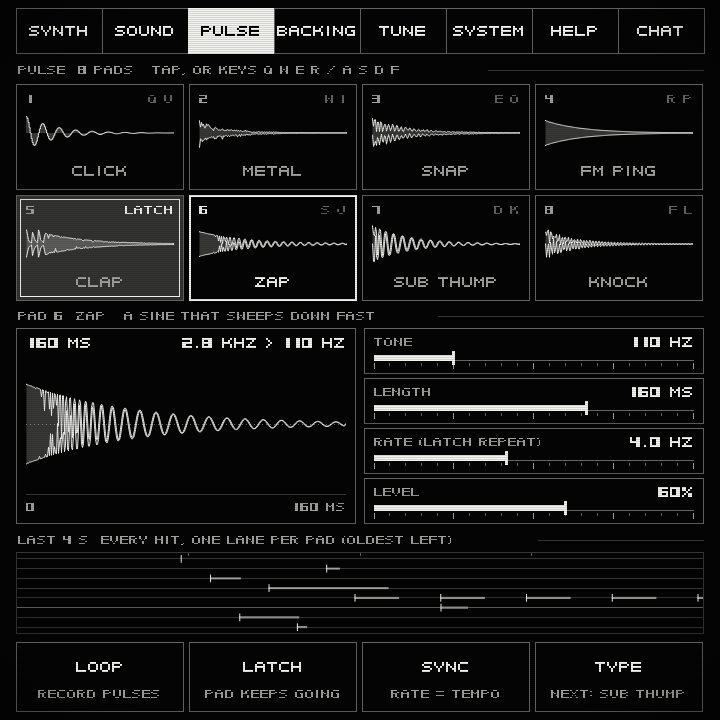
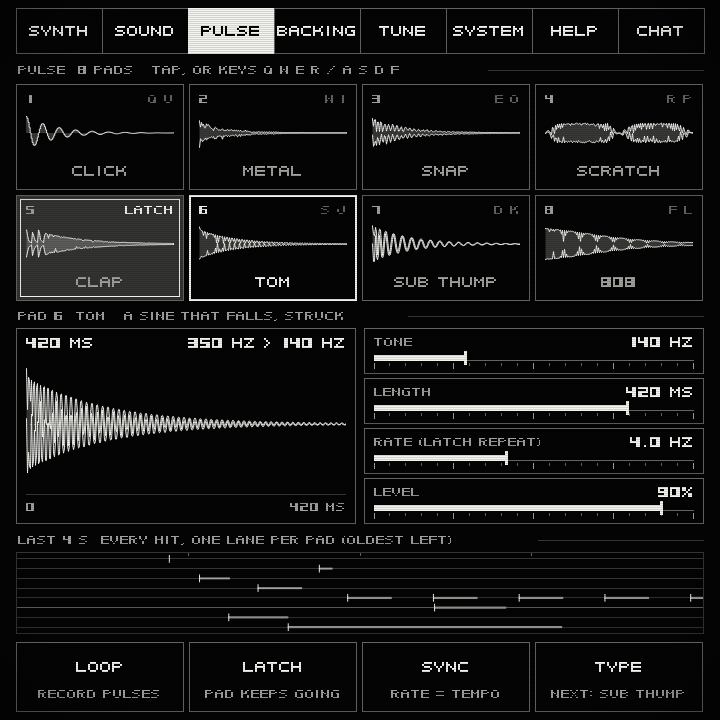
Pulse: scratch, tom and 808 replace FM ping, zap and knock (turntable and 808 direction)
All synthesized. The 808 is a long tuned boom with soft saturation; the tom an 808-style falling
sine with a noise strike; the scratch a rough tone pushed forward and pulled back.

diff --git a/core/pulse/pulse_voice.cpp b/core/pulse/pulse_voice.cpp
@@ -22,6 +22,7 @@ void PulseVoice::setFilters() {
     if (type == PT_METAL) { fc = tone * 20.0f; Q = 1.2f; }
     else if (type == PT_SNAP) { fc = tone * 25.0f; Q = 0.8f; }
     else if (type == PT_CLAP) { fc = tone; Q = 1.5f; }
+    else if (type == PT_SCRATCH) { fc = tone * 6.0f; Q = 1.0f; }
     fc = std::clamp(fc, 20.0f, 0.45f * sr);
     const float g = std::tan(kPi * fc / sr);
     svK = 1.0f / Q;
@@ -47,7 +48,7 @@ void PulseVoice::start(int pad, const PulsePad &p0, float sampleRate, float rate
     rate = std::clamp(rateHz, kPulseRateMin, kPulseRateMax);
     len = lengthSamples(p, sr);
     fadeLen = std::max(1, std::min((int)(0.001f * sr), len / 4));
-    ph = ph2 = 0; ic1 = ic2 = 0;
+    ph = 0; ic1 = ic2 = 0;
     for (float &h : hp) h = 0;
     for (double &q : sq) q = 0;
     rng.s = kSeed;
@@ -58,10 +59,9 @@ void PulseVoice::start(int pad, const PulsePad &p0, float sampleRate, float rate
     case PT_CLICK: tau = sec / 5.0f; break;
     case PT_METAL: tau = sec / 5.0f; break;
     case PT_SNAP: tau = sec / 6.0f; tau2 = sec / 3.5f; break;
-    case PT_PING: tau = sec / 4.0f; tau2 = sec / 12.0f; break;
+    case PT_TOM: tau = sec / 4.0f; tau2 = 0.002f; break;
     case PT_CLAP: tau = sec / 3.5f; break;
-    case PT_ZAP: tau = sec / 3.0f; tau2 = sec / 14.0f; break;
-    case PT_KNOCK: tau = sec / 4.0f; tau2 = sec / 9.0f; break;
+    case PT_BOOM: tau = sec / 3.0f; break;
     default: break;
     }
     decay = decay2 = 1;
@@ -113,10 +113,14 @@ float PulseVoice::next(bool &onset, int &dur) {
         decay2 *= decay2Coef;
         break;
     }
-    case PT_PING: { // phase modulation: the index (up to 3.5) fades three times faster than the ping
-        y = (float)std::sin(kTwoPi * ph + 3.5 * decay2 * std::sin(kTwoPi * ph2)) * decay;
-        ph = wrap(ph + tone / sr); ph2 = wrap(ph2 + std::min(tone * 1.4f, 0.45f * sr) / sr);
-        decay2 *= decay2Coef;
+    case PT_SCRATCH: { // two strokes: forward (up to 1.6 times speed), then back (up to 1.2)
+        const float x = pos / (float)len;
+        const float speed = x < 0.5f ? 1.6f * std::sin(kPi * x / 0.5f) : 1.2f * std::sin(kPi * (x - 0.5f) / 0.5f);
+        const double step = std::min(tone * speed, 0.15f * sr) / sr;
+        const float voice = sine(ph) * 0.6f + sine(2 * ph) * 0.3f + sine(3 * ph) * 0.15f; // a rough, vocal-ish tone
+        ph = wrap(ph + step);
+        const float grit = clampf(band(rng.bipolar()) * svNorm * 0.5f, -1, 1);
+        y = (voice + 0.25f * grit) * std::min(1.0f, speed * 1.3f);
         break;
     }
     case PT_CLAP: { // bursts at 0, 11 and 22 ms (3.5 ms each), then a tail from 33 ms
@@ -127,22 +131,22 @@ float PulseVoice::next(bool &onset, int &dur) {
         y = x * env;
         break;
     }
-    case PT_ZAP: // the pitch falls from 25 times TONE towards TONE
-        y = sine(ph) * decay;
-        ph = wrap(ph + std::min(tone * (1.0f + 24.0f * decay2), 0.45f * sr) / sr);
+    case PT_TOM: { // falls from 2.5 times TONE in about 20 ms; a 2 ms noise strike on top
+        y = 0.78f * sine(ph) * decay + 0.22f * rng.bipolar() * decay2;
+        ph = wrap(ph + tone * (1.0f + 1.5f * std::exp(-t / 0.02f)) / sr);
         decay2 *= decay2Coef;
         break;
+    }
     case PT_THUMP: { // the pitch falls from four times the tone to the tone, time constant 15 ms
         const float drop = std::exp(-t / 0.015f);
         y = sine(ph) * decay;
         ph = wrap(ph + tone * (1.0f + 3.0f * drop) / sr);
         break;
     }
-    case PT_KNOCK: { // two modes of a struck block, both a touch sharp at the strike
-        const float bend = 1.0f + 0.3f * std::exp(-t / 0.003f);
-        y = 0.75f * sine(ph) * decay + 0.35f * sine(ph2) * decay2;
-        ph = wrap(ph + tone * bend / sr); ph2 = wrap(ph2 + std::min(tone * 2.7f * bend, 0.45f * sr) / sr);
-        decay2 *= decay2Coef;
+    case PT_BOOM: { // glides down from twice TONE (40 ms), then rings long; soft saturation gives it weight
+        const float x = sine(ph) * decay;
+        y = std::tanh(1.8f * x) / std::tanh(1.8f);
+        ph = wrap(ph + tone * (1.0f + std::exp(-t / 0.04f)) / sr);
         break;
     }
     }

diff --git a/tests/pulse_tests.cpp b/tests/pulse_tests.cpp
@@ -71,22 +71,24 @@ void testPulseSounds() {
         CHECK(goertzel(cl.data() + (int)(0.04 * SR), w, 1200) > 2.0f * goertzel(cl.data() + (int)(0.04 * SR), w, 6000), "with its noise in a band around TONE");
     }
 
-    SECTION("pulse: pitched strikes");
+    SECTION("pulse: scratch, tom, sub thump and 808");
     {
-        std::vector<float> pg = render(kind(PT_PING, 880, 700), 0.7);
-        const int w = (int)(0.03 * SR);
-        CHECK(shareAt(pg.data() + (int)(0.003 * SR), w, 880) < 0.8f, "an FM ping starts rich (%.2f of its energy at TONE)", shareAt(pg.data() + (int)(0.003 * SR), w, 880));
-        CHECK(near(measureHz(pg.data() + (int)(0.35 * SR), w * 3), 880, 0.005f) && shareAt(pg.data() + (int)(0.35 * SR), w * 3, 880) > 0.95f,
-              "and rings out as a pure TONE (%.1f Hz)", measureHz(pg.data() + (int)(0.35 * SR), w * 3));
-        std::vector<float> z = render(kind(PT_ZAP, 110, 300), 0.3);
-        const float early = measureHz(z.data(), (int)(0.004 * SR)), late = measureHz(z.data() + (int)(0.15 * SR), (int)(0.12 * SR));
-        CHECK(early > 1000 && near(late, 110, 0.05f), "a zap sweeps from high (%.0f Hz) down to TONE (%.1f Hz)", early, late);
+        std::vector<float> sc = render(kind(PT_SCRATCH, 330, 400), 0.4);
+        const int L = (int)(0.4 * SR), w = (int)(0.01 * SR);
+        auto lv = [&](float x) { return rms(sc.data() + (int)(x * L) - w / 2, w); };
+        CHECK(lv(0.25f) > 4 * lv(0.5f) && lv(0.75f) > 4 * lv(0.5f), "a scratch is two strokes with a stop between (%.3f, %.3f, turn %.3f)", lv(0.25f), lv(0.75f), lv(0.5f));
+        const float fwd = measureHz(sc.data() + (int)(0.22 * L), (int)(0.06 * L)), back = measureHz(sc.data() + (int)(0.72 * L), (int)(0.06 * L));
+        CHECK(fwd > 1.2f * back && fwd > 330 * 1.3f, "pushed faster than it is pulled back, so it is higher (%.0f Hz, then %.0f Hz)", fwd, back);
+        std::vector<float> tm = render(kind(PT_TOM, 140, 420), 0.42);
+        const float early = measureHz(tm.data() + (int)(0.002 * SR), (int)(0.01 * SR)), late = measureHz(tm.data() + (int)(0.12 * SR), (int)(0.15 * SR));
+        CHECK(early > 1.6f * 140 && near(late, 140, 0.02f), "a tom falls from well above TONE (%.0f Hz) to TONE (%.1f Hz)", early, late);
         std::vector<float> s = render(kind(PT_THUMP, 45, 400), 0.4);
         const float e2 = measureHz(s.data(), (int)(0.025 * SR)), l2 = measureHz(s.data() + (int)(0.1 * SR), (int)(0.25 * SR));
         CHECK(e2 > 90 && near(l2, 45, 0.05f), "a sub thump falls from above twice its tone (%.0f Hz) to TONE (%.1f Hz)", e2, l2);
-        std::vector<float> k = render(kind(PT_KNOCK, 800, 400), 0.4); // long enough to measure its modes
-        const int a = (int)(0.012 * SR), n = (int)(0.08 * SR);
-        const float modes = shareAt(k.data() + a, n, 800) + shareAt(k.data() + a, n, 2160);
-        CHECK(modes > 0.9f && shareAt(k.data() + a, n, 2160) > 0.01f, "a knock is two modes, TONE and 2.7 times TONE (%.2f of its energy)", modes);
+        std::vector<float> b = render(kind(PT_BOOM, 49, 1600), 1.6);
+        const float bl = measureHz(b.data() + (int)(0.3 * SR), (int)(0.5 * SR));
+        CHECK(near(bl, 49, 0.02f), "an 808 settles on TONE, so it can be tuned (%.1f Hz)", bl);
+        CHECK(rms(b.data() + (int)(1.0 * SR), w * 5) > 0.15f * rms(b.data() + (int)(0.1 * SR), w * 5), "and it rings long: a second in it keeps over 15 %% of its level");
+        CHECK(peak(b) <= 1.0f, "its saturation stays inside full scale (peak %.3f)", peak(b));
     }
 }

diff --git a/tests/pulse_pad_tests.cpp b/tests/pulse_pad_tests.cpp
@@ -37,12 +37,12 @@ void testPulsePads() {
     }
     {
         Rig r;
-        r.inst.pulseSet(0, PF_TYPE, PT_PING); r.inst.pulseSet(0, PF_TONE, 660); r.inst.pulseSet(0, PF_LENGTH, 200);
+        r.inst.pulseSet(0, PF_TYPE, PT_TOM); r.inst.pulseSet(0, PF_TONE, 660); r.inst.pulseSet(0, PF_LENGTH, 200);
         r.run(0.01); r.clear();
-        r.inst.hit(0); r.run(0.15);
+        r.inst.hit(0); r.run(0.2);
         const UiState u = r.inst.uiState();
-        CHECK(u.pulse[0].type == PT_PING && u.pulse[0].tone == 660 && u.pulse[0].lengthMs == 200, "any pad can be any kind, with its own settings");
-        CHECK(near(measureHz(r.L.data() + 2400, 4800), 660, 0.005f), "and it plays them (%.1f Hz)", measureHz(r.L.data() + 2400, 4800));
+        CHECK(u.pulse[0].type == PT_TOM && u.pulse[0].tone == 660 && u.pulse[0].lengthMs == 200, "any pad can be any kind, with its own settings");
+        CHECK(near(measureHz(r.L.data() + 4800, 3600), 660, 0.02f), "and it plays them (%.1f Hz)", measureHz(r.L.data() + 4800, 3600));
         r.inst.pulseSet(0, PF_TONE, 1e9f); r.inst.pulseSet(0, PF_LEVEL, -3); r.run(0.01);
         CHECK(r.inst.uiState().pulse[0].tone == kPulseToneMax && r.inst.uiState().pulse[0].level == 0, "settings out of range are held at the limits");
     }
@@ -62,15 +62,15 @@ void testPulsePads() {
     }
     {
         Rig r;
-        r.inst.pulseLatch(5, true); // the zap, 160 ms: latched it is hit again at its rate
+        r.inst.pulseLatch(5, true); // the tom: latched it is hit again at its rate
         std::vector<PulseTick> t = pulseTicks(r, 1.02);
-        CHECK(ticksOf(t, 5) == 5, "a latched zap repeats at RATE (%d hits in 1.02 s at 4 Hz)", ticksOf(t, 5));
+        CHECK(ticksOf(t, 5) == 5, "a latched tom repeats at RATE (%d hits in 1.02 s at 4 Hz)", ticksOf(t, 5));
         r.inst.pulseSet(5, PF_RATE, 8);
         r.run(0.01);
         t = pulseTicks(r, 1.0);
         CHECK(ticksOf(t, 5) >= 7 && ticksOf(t, 5) <= 9, "and a new rate is followed at once (%d in 1 s at 8 Hz)", ticksOf(t, 5));
         r.inst.pulseLatch(5, false);
-        r.run(0.2); r.clear(); r.run(0.2);
+        r.run(0.5); r.clear(); r.run(0.2); // the last hit rings out its 420 ms first
         CHECK(peak(r.L) < 1e-4f, "unlatched it stops (peak %.6f)", peak(r.L));
         r.inst.pulseLatch(2, true); r.inst.pulseLatch(4, true); r.run(0.3);
         r.inst.cmd(EV_PANIC);

diff --git a/core/pulse/pulse.cpp b/core/pulse/pulse.cpp
@@ -7,11 +7,11 @@
 namespace td {
 
 namespace {
-const char *const kNames[kPulseTypes] = {"CLICK", "METAL", "SNAP", "FM PING", "CLAP", "ZAP", "SUB THUMP", "KNOCK"};
-const char *const kKeys[kPulseTypes] = {"click", "metal", "snap", "ping", "clap", "zap", "thump", "knock"};
+const char *const kNames[kPulseTypes] = {"CLICK", "METAL", "SNAP", "SCRATCH", "CLAP", "TOM", "SUB THUMP", "808"};
+const char *const kKeys[kPulseTypes] = {"click", "metal", "snap", "scratch", "clap", "tom", "thump", "808"};
 const char *const kLines[kPulseTypes] = {
-    "A SHORT RINGING CLICK", "CLASHING SQUARES, HIGH AND BRIGHT", "A PITCHED BODY UNDER BRIGHT NOISE", "A GLASSY FM STRIKE",
-    "THREE QUICK NOISE BURSTS AND A TAIL", "A SINE THAT SWEEPS DOWN FAST", "A LOW SINE THAT DROPS IN PITCH", "TWO WOODEN SINE MODES"};
+    "A SHORT RINGING CLICK", "CLASHING SQUARES, HIGH AND BRIGHT", "A PITCHED BODY UNDER BRIGHT NOISE", "A TONE PUSHED AND PULLED, LIKE VINYL",
+    "THREE QUICK NOISE BURSTS AND A TAIL", "A SINE THAT FALLS, STRUCK", "A LOW SINE THAT DROPS IN PITCH", "A LONG TUNED BOOM"};
 int clampType(int t) { return t < 0 ? 0 : (t >= kPulseTypes ? kPulseTypes - 1 : t); }
 } // namespace
 
@@ -19,8 +19,8 @@ PulsePad pulseDefault(int pad) {
     //                       type      tone    length  rate  level
     static const PulsePad D[kPulsePads] = {
         {PT_CLICK, 3000, 3, 4, 0.8f},   {PT_METAL, 400, 80, 8, 0.7f},     {PT_SNAP, 190, 180, 2, 0.9f},
-        {PT_PING, 880, 700, 2, 0.6f},   {PT_CLAP, 1200, 260, 2, 0.7f},    {PT_ZAP, 110, 160, 4, 0.6f},
-        {PT_THUMP, 45, 350, 1, 0.9f},   {PT_KNOCK, 800, 60, 4, 0.7f}};
+        {PT_SCRATCH, 330, 260, 2, 0.5f}, {PT_CLAP, 1200, 260, 2, 0.7f},   {PT_TOM, 140, 420, 4, 0.9f},
+        {PT_THUMP, 45, 350, 1, 0.9f},   {PT_BOOM, 49, 1600, 0.5f, 0.75f}};
     return D[pad < 0 ? 0 : (pad >= kPulsePads ? kPulsePads - 1 : pad)];
 }
 

diff --git a/core/pulse/pulse.h b/core/pulse/pulse.h
@@ -7,18 +7,19 @@
 //              the lowest square (the band sits twenty times above it)
 //   SNAP       a short pitched body (TONE, dropping from twice it) under a burst of bright noise
 //              (band at 25 times TONE), like a snare
-//   FM PING    a sine carrier at TONE, phase-modulated at 1.4 times TONE by an index that fades
-//              faster than the ping: a glassy, bell-like strike
+//   SCRATCH    a turntable scratch: a tone with its second and third harmonics, plus a little
+//              grit, pushed forward then pulled back (two strokes over LENGTH); TONE is the
+//              pitch at normal speed
 //   CLAP       band-passed noise (band at TONE) in three quick bursts 11 ms apart, then a tail
-//   ZAP        a sine that sweeps down from 25 times TONE to TONE: a laser-like drop
+//   TOM        an 808 tom: a sine falling from 2.5 times TONE to TONE, with a short noise strike
 //   SUB THUMP  a low sine that falls from four times TONE to TONE in about 15 ms
-//   KNOCK      two sine modes (TONE and 2.7 times TONE) with a tiny pitch drop: wood or a rim
+//   808        a long, tuned sub boom: a sine gliding down from twice TONE, softly saturated
 // RATE sets how often a latched pad repeats. LEVEL is 0..1.
 #pragma once
 
 namespace td {
 
-enum PulseType { PT_CLICK, PT_METAL, PT_SNAP, PT_PING, PT_CLAP, PT_ZAP, PT_THUMP, PT_KNOCK, kPulseTypes };
+enum PulseType { PT_CLICK, PT_METAL, PT_SNAP, PT_SCRATCH, PT_CLAP, PT_TOM, PT_THUMP, PT_BOOM, kPulseTypes };
 enum PulseField { PF_TYPE, PF_TONE, PF_LENGTH, PF_RATE, PF_LEVEL, PF_COUNT };
 constexpr int kPulsePads = 8;
 

diff --git a/app/selftest/socket_commands.cpp b/app/selftest/socket_commands.cpp
@@ -79,7 +79,7 @@ const Case cases[] = {
     {R"({"cmd":"backing","action":"play"})", true, 100},
     {R"({"cmd":"backing","action":"remove_last"})", true, 0},
     {R"({"cmd":"backing"})", false, 0},
-    {R"({"cmd":"pulse","pad":0,"type":"zap","tone":800,"length":120,"rate":30,"level":0.5})", true, 0},
+    {R"({"cmd":"pulse","pad":0,"type":"tom","tone":800,"length":120,"rate":30,"level":0.5})", true, 0},
     {R"({"cmd":"pulse","pad":0,"type":"banjo"})", false, 0},
     {R"({"cmd":"pulse","pad":8,"hit":true})", false, 0},
     {R"({"cmd":"pulse","hit":true})", false, 0},
@@ -139,7 +139,7 @@ void socketEveryCommand(Context &ctx, Link &link) {
     {
         const QJsonObject st = r["result"].toObject();
         check(st["backing"].toObject()["chords"].toArray().size() >= 3 &&
-              st["pulse"].toObject()["pads"].toArray()[0].toObject()["type"].toString() == "zap" && st["pulse"].toObject()["sync"].toBool() &&
+              st["pulse"].toObject()["pads"].toArray()[0].toObject()["type"].toString() == "tom" && st["pulse"].toObject()["sync"].toBool() &&
               st["tempo"].toDouble() == 120 && st["page"].toString() == "synth" && !st.contains("beat"),
               "state reflects what the commands did (backing chords, a pulse pad, sync, tempo, page)");
     }

diff --git a/app/control/control_loop.cpp b/app/control/control_loop.cpp
@@ -73,7 +73,7 @@ QJsonObject ControlServer::cmdBacking(const QJsonObject &a, QString &e) {
     return r;
 }
 
-// {"cmd":"pulse","pad":5,"type":"zap","tone":1000,"length":250,"rate":40,"level":0.8,"latch":true,"hit":true,"sync":false}
+// {"cmd":"pulse","pad":5,"type":"tom","tone":1000,"length":250,"rate":40,"level":0.8,"latch":true,"hit":true,"sync":false}
 // Every field is optional, but there must be one; all but sync need a pad (0 to 7).
 QJsonObject ControlServer::cmdPulse(const QJsonObject &a, QString &e) {
     Args A{a, e};
@@ -88,7 +88,7 @@ QJsonObject ControlServer::cmdPulse(const QJsonObject &a, QString &e) {
     const double rate = A.num("rate", kPulseRateMin, kPulseRateMax, -1), level = A.num("level", 0, 1, -1);
     if (!e.isEmpty()) return {};
     const int t = type.isEmpty() ? -1 : pulseTypeFromKey(type.toLower().toUtf8().constData());
-    if (!type.isEmpty() && t < 0) { e = "type must be click, metal, snap, ping, clap, zap, thump or knock"; return {}; }
+    if (!type.isEmpty() && t < 0) { e = "type must be click, metal, snap, scratch, clap, tom, thump or 808"; return {}; }
     if (A.has("sync")) inst.set(S_PULSESYNC, sync ? 1 : 0);
     if (t >= 0) inst.pulseSet(pad, PF_TYPE, (float)t);
     if (tone >= 0) inst.pulseSet(pad, PF_TONE, (float)tone);

diff --git a/app/pages/help/help_rows.cpp b/app/pages/help/help_rows.cpp
@@ -27,8 +27,8 @@ std::vector<HelpRow> helpRows(const KeyMap &km, int helpPage) {
         };
     } else if (helpPage == 2) {
         rows = {
-            {km.rows[2].left(4).split("", Qt::SkipEmptyParts).join(" "), "Pulse page: pads 1-4 (click, metal, snap, ping)"},
-            {km.rows[1].left(4).split("", Qt::SkipEmptyParts).join(" "), "Pulse page: pads 5-8 (clap, zap, thump, knock)"},
+            {km.rows[2].left(4).split("", Qt::SkipEmptyParts).join(" "), "Pulse page: pads 1-4 (click, metal, snap, scratch)"},
+            {km.rows[1].left(4).split("", Qt::SkipEmptyParts).join(" "), "Pulse page: pads 5-8 (clap, tom, thump, 808)"},
             {km.rows[2].mid(6, 4).split("", Qt::SkipEmptyParts).join(" ") + " / " + km.rows[1].mid(5, 4).split("", Qt::SkipEmptyParts).join(" "), "the same pads again, for the other hand"},
             {"Left / Right", "Pulse page: select the pad before / after"},
             {km.rows[0].left(1) + QString::fromUtf8(" ‥ ") + km.rows[0].right(1), "Pulse page: the low string still plays"},

diff --git a/app/pages/pulse/pulse_pads.cpp b/app/pages/pulse/pulse_pads.cpp
@@ -34,11 +34,11 @@ QString what(const PulsePad &p, int /*onsets*/, float sr) { // the top right of 
     switch (p.type) {
     case PT_METAL: return QString("band %1").arg(hz(std::min(p.tone * 20, top)));
     case PT_SNAP: return QString("body %1").arg(hz(p.tone));
-    case PT_PING: return QString("%1, fm x1.4").arg(hz(p.tone));
+    case PT_SCRATCH: return QString("%1, two strokes").arg(hz(p.tone));
     case PT_CLAP: return QString("band %1").arg(hz(p.tone));
-    case PT_ZAP: return QString("%1 > %2").arg(hz(std::min(p.tone * 25, top))).arg(hz(p.tone));
+    case PT_TOM: return QString("%1 > %2").arg(hz(std::min(p.tone * 2.5f, top))).arg(hz(p.tone));
     case PT_THUMP: return QString("%1 > %2").arg((int)std::round(p.tone * 4)).arg(hz(p.tone));
-    case PT_KNOCK: return QString("%1 + %2").arg(hz(p.tone)).arg(hz(std::min(p.tone * 2.7f, top)));
+    case PT_BOOM: return QString("%1 > %2").arg(hz(std::min(p.tone * 2, top))).arg(hz(p.tone));
     default: return QString("ring %1").arg(hz(p.tone));
     }
 }

diff --git a/core/pulse/pulse_voice.h b/core/pulse/pulse_voice.h
@@ -33,8 +33,8 @@ private:
     int padNo = 0, type = 0, pos = 0, len = 1, wait = 0, fadeLen = 1;
     float sr = 48000, tone = 1000, rate = 4, level = 0.8f, relGain = 1, relCoef = 0.99f;
     float decay = 1, decayCoef = 1;   // the main exponential envelope, multiplied each sample
-    float decay2 = 1, decay2Coef = 1; // a second one: the snap's noise, the ping's index, the knock's upper mode
-    double ph = 0, ph2 = 0;           // sine phases (0..1): the body, and the modulator or upper mode
+    float decay2 = 1, decay2Coef = 1; // a second one: the snap's noise, the tom's strike
+    double ph = 0;                    // sine phase (0..1)
     double sq[6] = {0};               // metal: the six squares' phases
     float hpA = 0, hp[4] = {0};       // metal: two one-pole high-passes (in and out of each)
     float ic1 = 0, ic2 = 0, svA1 = 0, svA2 = 0, svA3 = 0, svK = 0.5f, svNorm = 1; // a band-pass (metal, snap, clap)

diff --git a/app/tour/tourdemoplay.cpp b/app/tour/tourdemoplay.cpp
@@ -31,7 +31,7 @@ void TourDemo::playPages(Rig &rig, std::vector<TourView::Pic> &pics) {
     w.setPage(PG_PULSE); rig.settle(2);
     for (int p : {0, 2, 6, 3, 7}) { w.pulsePage.hitPad(p); pump(inst, 180); rig.settle(1); } // a few hits for the strip
     w.pulsePage.setLatch(1, true); pump(inst, 600); rig.settle(1); w.pulsePage.setLatch(1, false);
-    w.pulsePage.hitPad(5); pump(inst, 400);                                  // the zap, selected
+    w.pulsePage.hitPad(5); pump(inst, 400);                                  // the tom, selected
     rig.settle(3);
     QThread::msleep(300);                                                     // the pads that just sounded fade
     C("pulse");

diff --git a/docs/STATUS.md b/docs/STATUS.md
@@ -1,6 +1,6 @@
 # Status — what works, what is unproven, what is missing
 
-Version 0.14.0 with new pulse sounds, 2026-11-15. Six of the eight pulse kinds were replaced (the player found them dull): tick, noise burst, sine blip, gated tone, pulse train and hiss gave way to **metal** (hi-hat-like squares), **snap** (snare-like), **FM ping**, **clap**, **zap** and **knock**. Click and sub thump are unchanged. A latched pad of any kind now repeats at Rate (no kind runs on by itself any more). Old state files that name a removed kind keep that pad's default. The held / bendable pad experiment was tried and reverted. **Nobody has heard the new sounds yet**: everything below about them is measured offline. Tests: 428 engine checks.
+Version 0.14.0 with new pulse sounds, 2026-11-15. Six of the eight pulse kinds were replaced (the player found them dull), then three more steered towards turntable and 808 sounds (Joe Hahn, Linkin Park, 808s & Heartbreak as the direction, synthesized, nothing sampled): tick, noise burst, sine blip, gated tone, pulse train and hiss gave way to **metal** (hi-hat-like squares), **snap** (snare-like), **scratch** (a turntable push and pull), **clap**, **tom** (808-style) and **808** (a long tuned boom). Click and sub thump are unchanged. A latched pad of any kind now repeats at Rate (no kind runs on by itself any more). Old state files that name a removed kind keep that pad's default. The held / bendable pad experiment was tried and reverted. **Nobody has heard the new sounds yet**: everything below about them is measured offline. Tests: 430 engine checks.
 
 Version 0.14.0 with Backing restored, 2026-11-15. The Backing page is back as it was before 0.13.0 (progression row, Prog / Hold / Drone, Sustain / Pulse / arpeggio styles, 7th chords, backing volume, the `backing` socket command), except that backing play / stop is now `Ctrl`+`Space` (`Ctrl`+`P` is the Poly keyboard). The Track page stays removed, and so does the beat sequencer: the tabs are Synth, Sound, Pulse, Backing, Tune, System, Help and Chat. Sessions keep the progression again. Tests: 439 engine, 344 app checks.
 
@@ -27,8 +27,8 @@ application with real key and touch events while the real audio thread runs (344
 | Looper | Count-in, bar snap, playback, overdub, undo, stop/start, clear; a recorded slide replays as a slide; an 18-second loop; a layer keeps the sound it was recorded with |
 | Glitch | With the pad down the wave becomes flat steps with only a few levels left, the note is still present, loudness stays in range and inside full scale; the grit is the same at low volume; lifting the finger, changing mapping or panic restores the clean sound; Hold latches it |
 | Backing | Diatonic triads and sevenths named and built correctly; a tapped I–IV–V–IV progression loops in tempo under a live melody; remove / replace / stop / start / clear; hold and drone modes; arpeggio; backing keeps its sound when the lead changes; the progression, held chord and drones are saved in sessions |
-| Pulse sounds | Each of the eight default pads is finite, peaks between 0.05 and 1.0, never sounds past its Length and fades to silence; the same settings give the same samples twice; offline none of metal, snap or clap clips at full level. A click starts at its peak with most of its energy in the first millisecond; metal has more than four times the energy at 8 kHz as at 500 Hz and dies inside its length; a snap has a body at Tone (twice the energy an octave up) under bright noise; a clap is three bursts 11 ms apart, each three times louder than the gap before it, then a tail in a band at Tone; an FM ping starts with under 80 % of its energy at Tone and rings out within 0.5 % of Tone and over 95 % pure; a zap sweeps from above 1 kHz down to within 5 % of 110 Hz; a sub thump starts above twice its tone and settles at it; a knock has over 90 % of its energy in its two modes |
-| Pulse pads (engine) | What the audio thread plays is the picture's sound, sample for sample, for all eight pads; a tap is heard inside 30 ms and ends after its length; any pad can be any kind; out-of-range settings are held at the limits; a latched click repeats at Rate to the sample and stops when let go; a latched zap repeats at Rate and follows a new rate at once; panic stops every pulse and drops latches; Sync snaps 7.5 Hz to sixteenths at 120 bpm, and latched hits then land on that grid of the beat clock to the sample; a tap recorded into a one-bar loop plays back once a bar, exactly a bar apart; all eight latched at full level stay inside full scale; a session keeps every pad's settings and Sync, with no latch |
+| Pulse sounds | Each of the eight default pads is finite, peaks between 0.05 and 1.0, never sounds past its Length and fades to silence; the same settings give the same samples twice; offline none of metal, snap or clap clips at full level. A click starts at its peak with most of its energy in the first millisecond; metal has more than four times the energy at 8 kHz as at 500 Hz and dies inside its length; a snap has a body at Tone (twice the energy an octave up) under bright noise; a clap is three bursts 11 ms apart, each three times louder than the gap before it, then a tail in a band at Tone; a scratch is two strokes, each more than four times louder than the stop between them, the push measuring over 1.2 times the pitch of the pull; a tom falls from above 1.6 times Tone to within 2 % of it; a sub thump starts above twice its tone and settles at it; an 808 settles within 2 % of Tone, keeps over 15 % of its level a second in, and its saturation stays inside full scale |
+| Pulse pads (engine) | What the audio thread plays is the picture's sound, sample for sample, for all eight pads; a tap is heard inside 30 ms and ends after its length; any pad can be any kind; out-of-range settings are held at the limits; a latched click repeats at Rate to the sample and stops when let go; a latched tom repeats at Rate and follows a new rate at once; panic stops every pulse and drops latches; Sync snaps 7.5 Hz to sixteenths at 120 bpm, and latched hits then land on that grid of the beat clock to the sample; a tap recorded into a one-bar loop plays back once a bar, exactly a bar apart; all eight latched at full level stay inside full scale; a session keeps every pad's settings and Sync, with no latch |
 | Pulse page (app) | Pads by touch and by `Q` / `U` / `A`, and they do not play strings; a tap selects; `Right` selects the next pad; the strip keeps the hits the engine logged and a latched pad keeps adding hits; Type steps through all eight kinds and back; the Tone slider moves in octaves, Level is linear; Latch, tapping the latched pad, Sync on and off; `Enter` and the Loop soft key are the loop pedal; the pads' settings and the selected pad are in the state file, and no beat; the `pulse` socket command (good and refused arguments) and `state.pulse` |
 | Guided help (app) | `zones` lists every named zone of all eight pages with a rectangle and a label, and the list equals what is drawn; listing another page leaves the player where they are; every row of all three Help sections is a named zone (16/16/12). `highlight`: an alias (`octave`) and a prefix (`chord*`) expand; unknown names are reported while known ones highlight; a bright rule is drawn around the zone (pixel measured); the caption stays on screen and clear of the highlighted zones; it ends after its time, on `unhighlight`, and when the page changes (and does not return); `page` + highlight switch and highlight in one step; 6,800 hostile requests (wrong types, 40 names, a 500-character name, a label with control characters, out-of-range ms) are answered, none crashed. Dock: `Ctrl`+`Y` opens it with the keyboard without leaving the page; letters type and play no string; `Enter` sends with the next `seq` and wakes a waiting `chat_wait`; the message carries `page`, `focus` and `via` through `chat_poll` and `chat_wait`; `Esc` gives the keys back (a key plays again) and keeps the dock, `Esc` again closes it, then Esc is the old Esc; `Ctrl`+`Y` toggles focus; touch on the input, Send, Hide and Full; `Ctrl`+`Shift`+`Y` and the Chat page unchanged. The dock and the caption were tried over every zone shorter than 330 px of every page (more than 150) and never overlapped it: it shortens, then moves to the top; the ticker moves to the top for the same reason, and a touch on it opens the dock. The topic tag is set by a highlight, kept by a message within 5 s, and cleared by a later one or a page change. Help: Ask Rook and a tapped row open the dock with a starting question; the question goes out with the row as `focus`; all rows stay visible above the dock |
 | Control socket and chat | The socket starts, is `0600`, replaces a stale file from a crashed run and refuses to take over a live one; two clients at once; replies carry the request id. A note over the socket has the right pitch (measured with the scope on the output: string 0 degree 0 = 110 Hz, a degree on the middle string follows the scale, MIDI 81 = 880 Hz); it lets go by itself after its duration; the player's own keys slide it; panic empties every voice; a slide moves the pitch. 94 requests cover every command with a good and a refused argument (note, notes, chord, slide, release, panic, set_param, get_params, sound, save_favourite, scale, tempo, octave, bend, sustain, loop, backing, pulse, page, session, screenshot, the chat commands); state shows what they did; the screenshot is a 720x720 PNG. Chat: chat_say shows on the page, in the ticker on another page, as an unread count and in `state`; letters typed with synthetic key events fill the input line and play no string, Backspace edits, Enter (or the Send button) sends; a pending chat_wait is answered the moment the message is sent (15 ms measured) while other clients are served, and times out with an empty list; chat_poll returns both directions; `Ctrl`+`Y` goes to Chat and back, `Esc` leaves; the history is in the state file and only the last 200 are kept. Hostile input: garbage, a JSON array, a 40,000-digit number, a 2 MiB line, deeply nested JSON, several requests in one write, a client that disconnects mid-line, and 8,954 requests with one wrongly typed or out-of-range argument for every command: all answered, none crashed, no events dropped, output inside full scale. The socket file is removed on stop |
